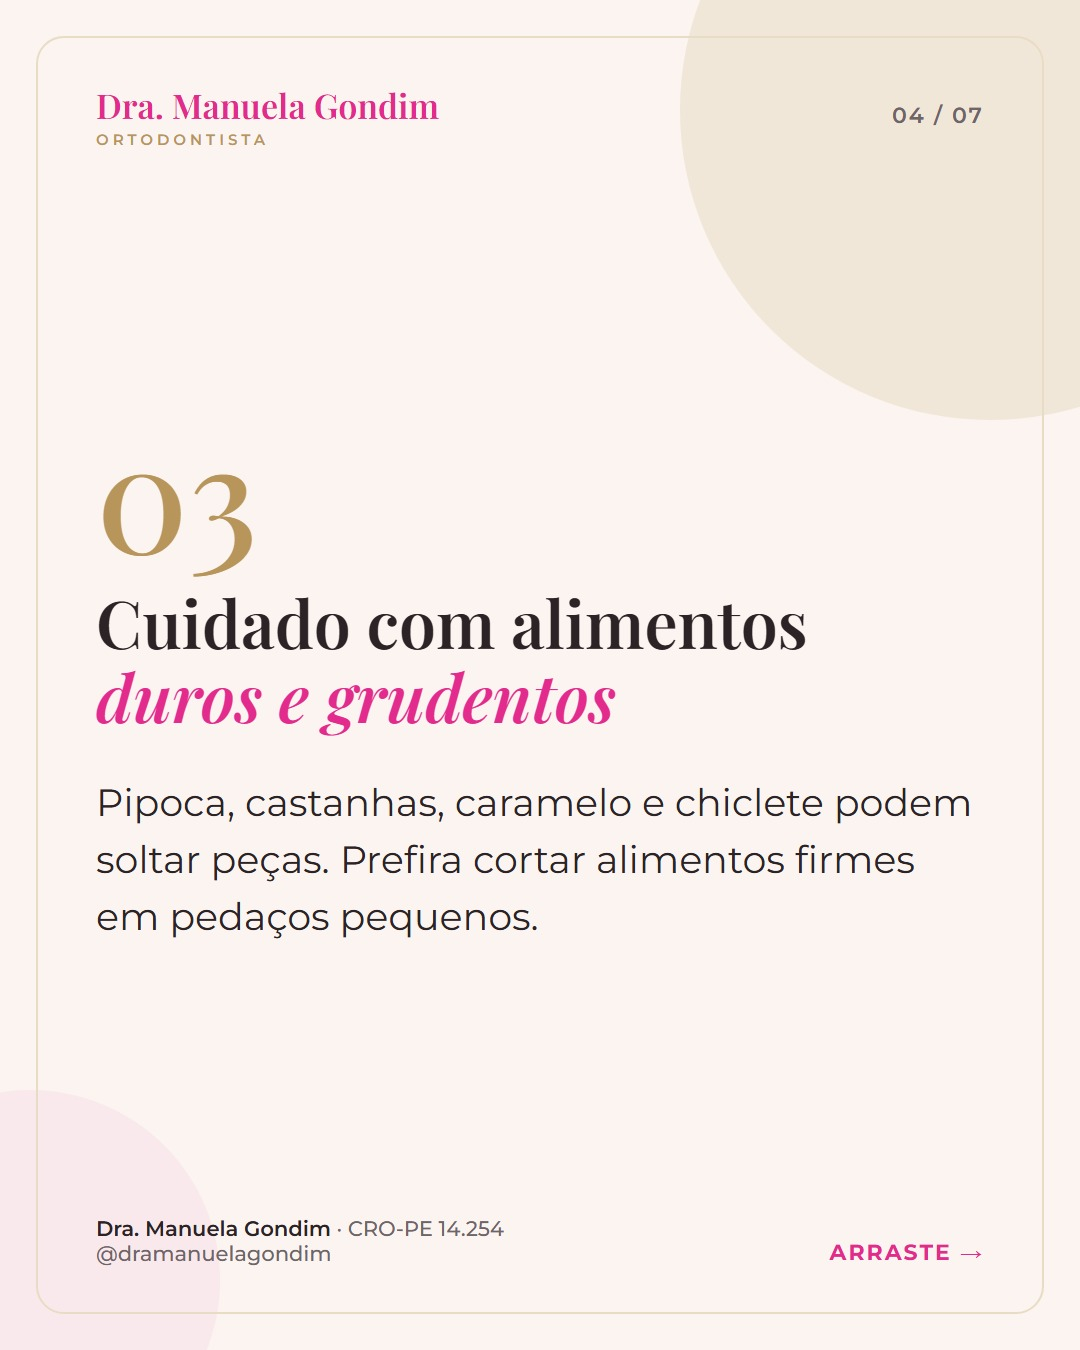
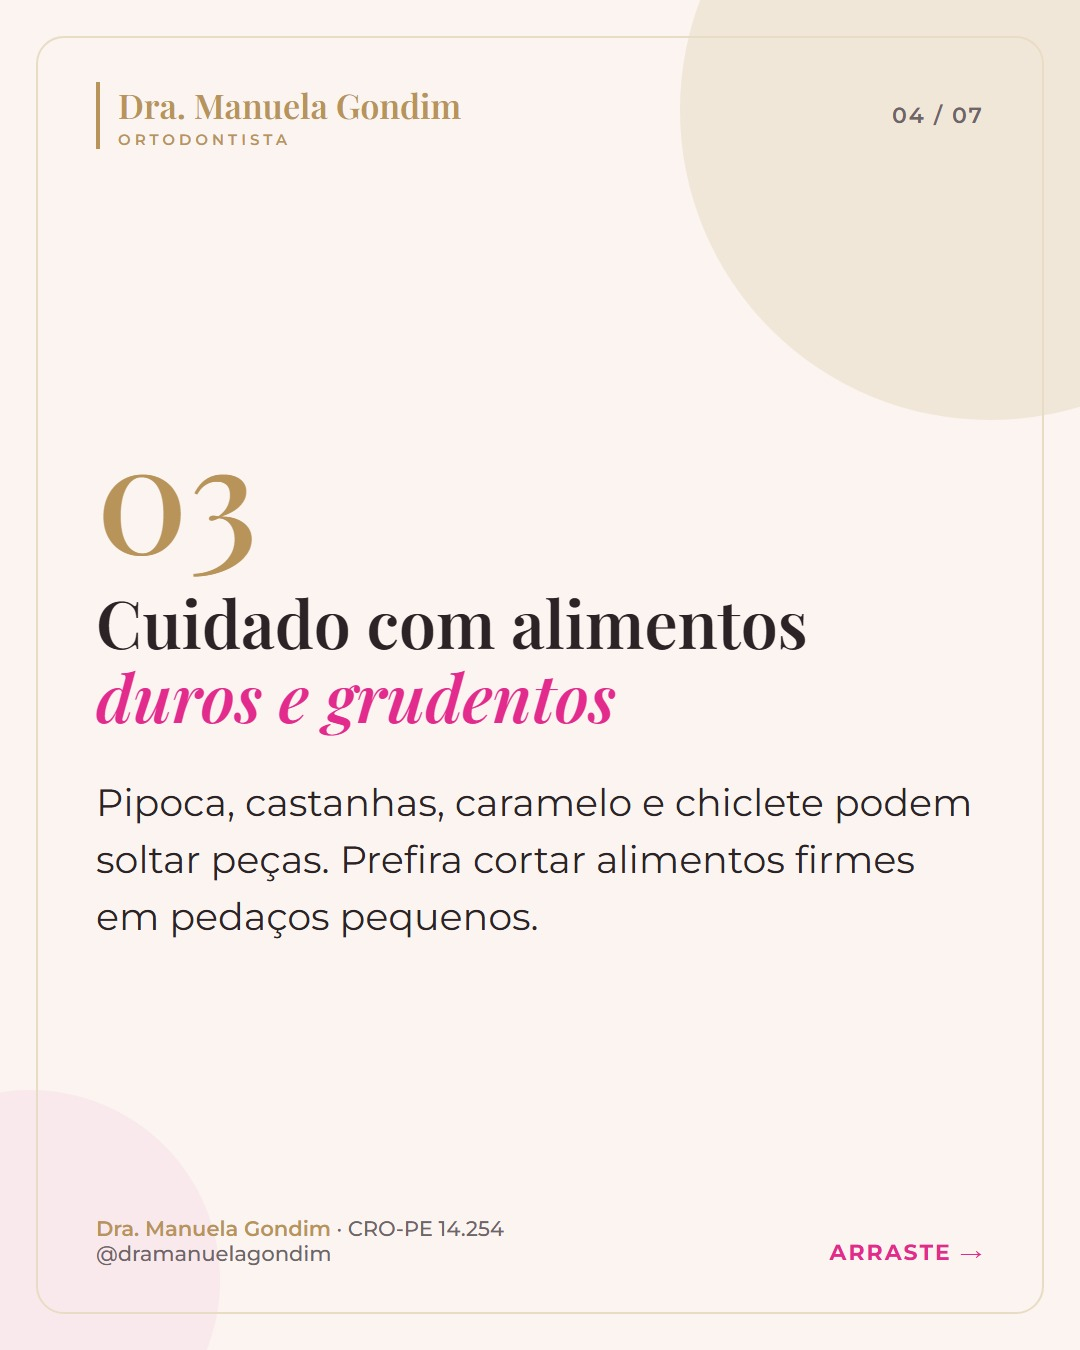
Identidade dos Reels (dourado identifica, rosa é ação) e estratégia do Plano de Captação

Changed region(s): [[0.0917, 0.0622, 0.4278, 0.1244], [0.0917, 0.9022, 0.3056, 0.9333]]

diff --git a/marca/estrategia.md b/marca/estrategia.md
@@ -1,40 +1,58 @@
 # Estratégia Editorial
 
+> Baseada no "Plano de Captação de Pacientes" (out/2026) e no "Sistema de Crescimento" (set/2026).
+
 ## Objetivo
 
 1. Manter o perfil **sempre ativo** sem depender da disposição da Dra. Manuela.
-2. Crescer seguidores locais (Olinda / Recife / RMR).
-3. Converter seguidores em **agendamentos de avaliação** pelo WhatsApp.
+2. Posicionar como **ortodontista em Olinda** (foco vende; a amplitude multidisciplinar aparece na avaliação).
+3. Converter seguidores em **conversas no WhatsApp → avaliações**. O anúncio vende resultado e autoridade, nunca preço.
 
-## Frequência (automática)
+## Linhas que puxam a captação
 
-| Formato | Frequência | Quem produz |
-|---|---|---|
-| Feed (carrossel ou post único) | 3× por semana — seg, qua, sex | Agente |
-| Stories (enquete, caixinha, dica rápida) | 1 por dia útil | Agente |
-| Reels | Quando ela gravar (meta: 1 a cada 15 dias) | Ela grava → agente escreve legenda e agenda |
+Ortodontia adulto · Estética (clareamento e lentes) · Próteses (PPR, adesiva, total).
+Os parceiros especialistas são diferencial de retaguarda: "cuidado completo num só lugar".
+
+## Grade semanal
+
+| Dia | Pilar | Função no funil | Quem produz |
+|---|---|---|---|
+| **Segunda** | Antes e depois | Conversão — vira anúncio | Agente monta o carrossel **somente** com fotos que a Dra. enviar, com TCLE assinado. Sem material: post educativo da linha da semana |
+| **Quarta** | Autoridade — série **"Sorriso em 60 segundos"** | Reduz objeção, gera confiança | Dra. grava o Reel (sessão mensal); agente escreve roteiro, legenda e agenda. Sem Reel: carrossel educativo/mito ou verdade |
+| **Sexta** | Humanização / bastidores | Aproxima e reduz medo | Agente (carrossel) ou Reel de bastidores |
+| Seg–sex | Stories (dica, curiosidade, convite) | Mantém presença | Agente |
 
 Horários padrão: feed às **12h** ou **19h**; stories às **9h**.
 
-## Pilares de conteúdo (rodízio)
+### Banco de pautas automáticas (quando não há material da Dra.)
 
 | Pilar | Peso | Exemplos |
 |---|---|---|
-| **Educa** — dúvidas e cuidados | 35% | Quanto tempo dura o aparelho? Como escovar com aparelho? |
-| **Mito ou verdade** | 20% | "Aparelho é só para adolescente" — MITO |
-| **Vitrine multidisciplinar** | 15% | Implantes, clareamento, lentes — "tudo num só lugar" |
-| **Conexão** — bastidores, a Dra., Olinda | 15% | Datas comemorativas, rotina, frases |
-| **Convite** — CTA para avaliação | 15% | "Seu sorriso merece uma avaliação" |
+| Educa — dúvidas e cuidados | 35% | Quanto tempo dura o aparelho? Lente × faceta × clareamento. Por que a dentadura solta? |
+| Mito ou verdade | 20% | "Aparelho é só para adolescente" — MITO |
+| Vitrine multidisciplinar | 15% | Implantes, clareamento, próteses — "tudo num só lugar" |
+| Conexão — bastidores, biossegurança, Olinda | 15% | Planejamento de um caso, tecnologia usada, datas |
+| Convite — CTA para avaliação | 15% | "Seu sorriso merece uma avaliação" |
 
-Regra: pelo menos 1 post por semana termina com convite forte para avaliação.
+Regras:
+- Pelo menos 1 post por semana termina com convite para a consulta de avaliação (WhatsApp).
+- Os 3 posts com mais salvamentos do mês viram destaque fixo e candidatos a anúncio.
+- Público 50+ (próteses) responde melhor a vídeo da Dra. falando: priorizar Reel nessa linha.
+
+## Atendimento (contexto para CTAs)
+
+- WhatsApp (81) 99904-9697, atendido sob a persona **"Sandra"**, assistente do consultório.
+  Se houver resposta automática, deixar claro que é "assistente virtual".
+- CTA sempre leva ao WhatsApp; nunca prometer prazo de resposta.
 
 ## Datas para aproveitar
 
 - Carnaval de Olinda (fev/mar) · Dia do Dentista (25/out) · Dia das Mães · Dia dos Namorados
 - Volta às aulas (jan/fev e jul) — ortodontia infantil
 - Fim de ano / formaturas / casamentos — estética e clareamento
+- Datas comemorativas **não** devem ocupar o espaço do conteúdo que gera avaliação (diagnóstico de set/2026).
 
 ## Hashtags base (escolher 5–8 por post)
 
-#ortodontiaolinda #dentistaolinda #dentistarecife #ortodontista #aparelhodental
-#sorriso #odontologia #olinda #recife #alinhadores #clareamentodental #implantedentario
+#ortodontiaolinda #ortodontistaolinda #dentistaolinda #dentistarecife #aparelhodental
+#sorriso #olinda #recife #alinhadores #clareamentodental #protesedentaria #lentesdecontato

diff --git a/marca/guia.md b/marca/guia.md
@@ -45,8 +45,10 @@ dentistas parceiros especialistas (não falar "sócios"; falar "equipe de especi
 
 ## Identidade visual
 
+- **Regra de uso (definida nos Reels):** **dourado identifica** — nome da Dra., "Ortodontista · CRO-PE 14.254",
+  barra lateral; **rosa é marca e ação** — logo, palavras-chave em destaque, CTA e WhatsApp.
 - **Rosa principal:** `#E22B8D` · rosa escuro `#B81C6F`
-- **Dourado:** `#B8955A` · dourado suave `#E9DCC4`
+- **Dourado:** `#B8945A` · dourado suave `#E9DCC4`
 - **Texto:** `#2B2326` · texto secundário `#6F6468`
 - **Fundo:** `#FBF4F0` (nude claro) · cartões `#FFFFFF`
 - **Fontes:** Playfair Display (títulos, elegante) + Montserrat (texto)
@@ -56,13 +58,20 @@ dentistas parceiros especialistas (não falar "sócios"; falar "equipe de especi
 
 O agente **nunca** pode:
 
-1. Divulgar **preços**, valores, descontos, promoções, "condições especiais", parcelamento ou formas de pagamento.
-2. Oferecer serviço **gratuito** ou usar a avaliação como "brinde" (pode convidar para **agendar avaliação**, sem dizer "grátis").
+1. Divulgar **preços**, valores, descontos, promoções, "condições especiais", "vagas limitadas", parcelamento ou formas de pagamento.
+2. Anunciar **avaliação gratuita** ou qualquer serviço gratuito (art. 44, I do Código de Ética — a Res. CFO 271/2025
+   não alterou esse inciso). Convidar para "consulta de avaliação e planejamento", sem falar em preço.
 3. **Prometer resultado** ("sorriso perfeito garantido", "sem dor", "em X meses fica pronto").
 4. Usar linguagem **sensacionalista**, de medo ou comparação depreciativa com outros profissionais.
 5. Publicar **antes e depois** ou foto de paciente identificável sem que a Dra. Manuela tenha fornecido o material e confirmado autorização do paciente.
 6. Fazer diagnóstico à distância ("se você tem isso, precisa de canal").
 7. Usar títulos que ela não possui (ela é **ortodontista**; outras áreas são feitas pela equipe parceira).
+   Estética e próteses aparecem como **procedimentos**, nunca como especialidade.
+8. Mostrar imagens de procedimento **em curso**, ou foto editada que altere o resultado.
+9. Publicar **depoimento** de paciente sem validação prévia do formato com o CRO-PE.
+
+> Pendência: anunciar "Ortodontista" exige título de especialista registrado no CRO-PE. A Dra. deve confirmar
+> que o registro existe (e se o número do registro de especialista precisa aparecer nas peças).
 
 O agente **sempre** deve:
 
